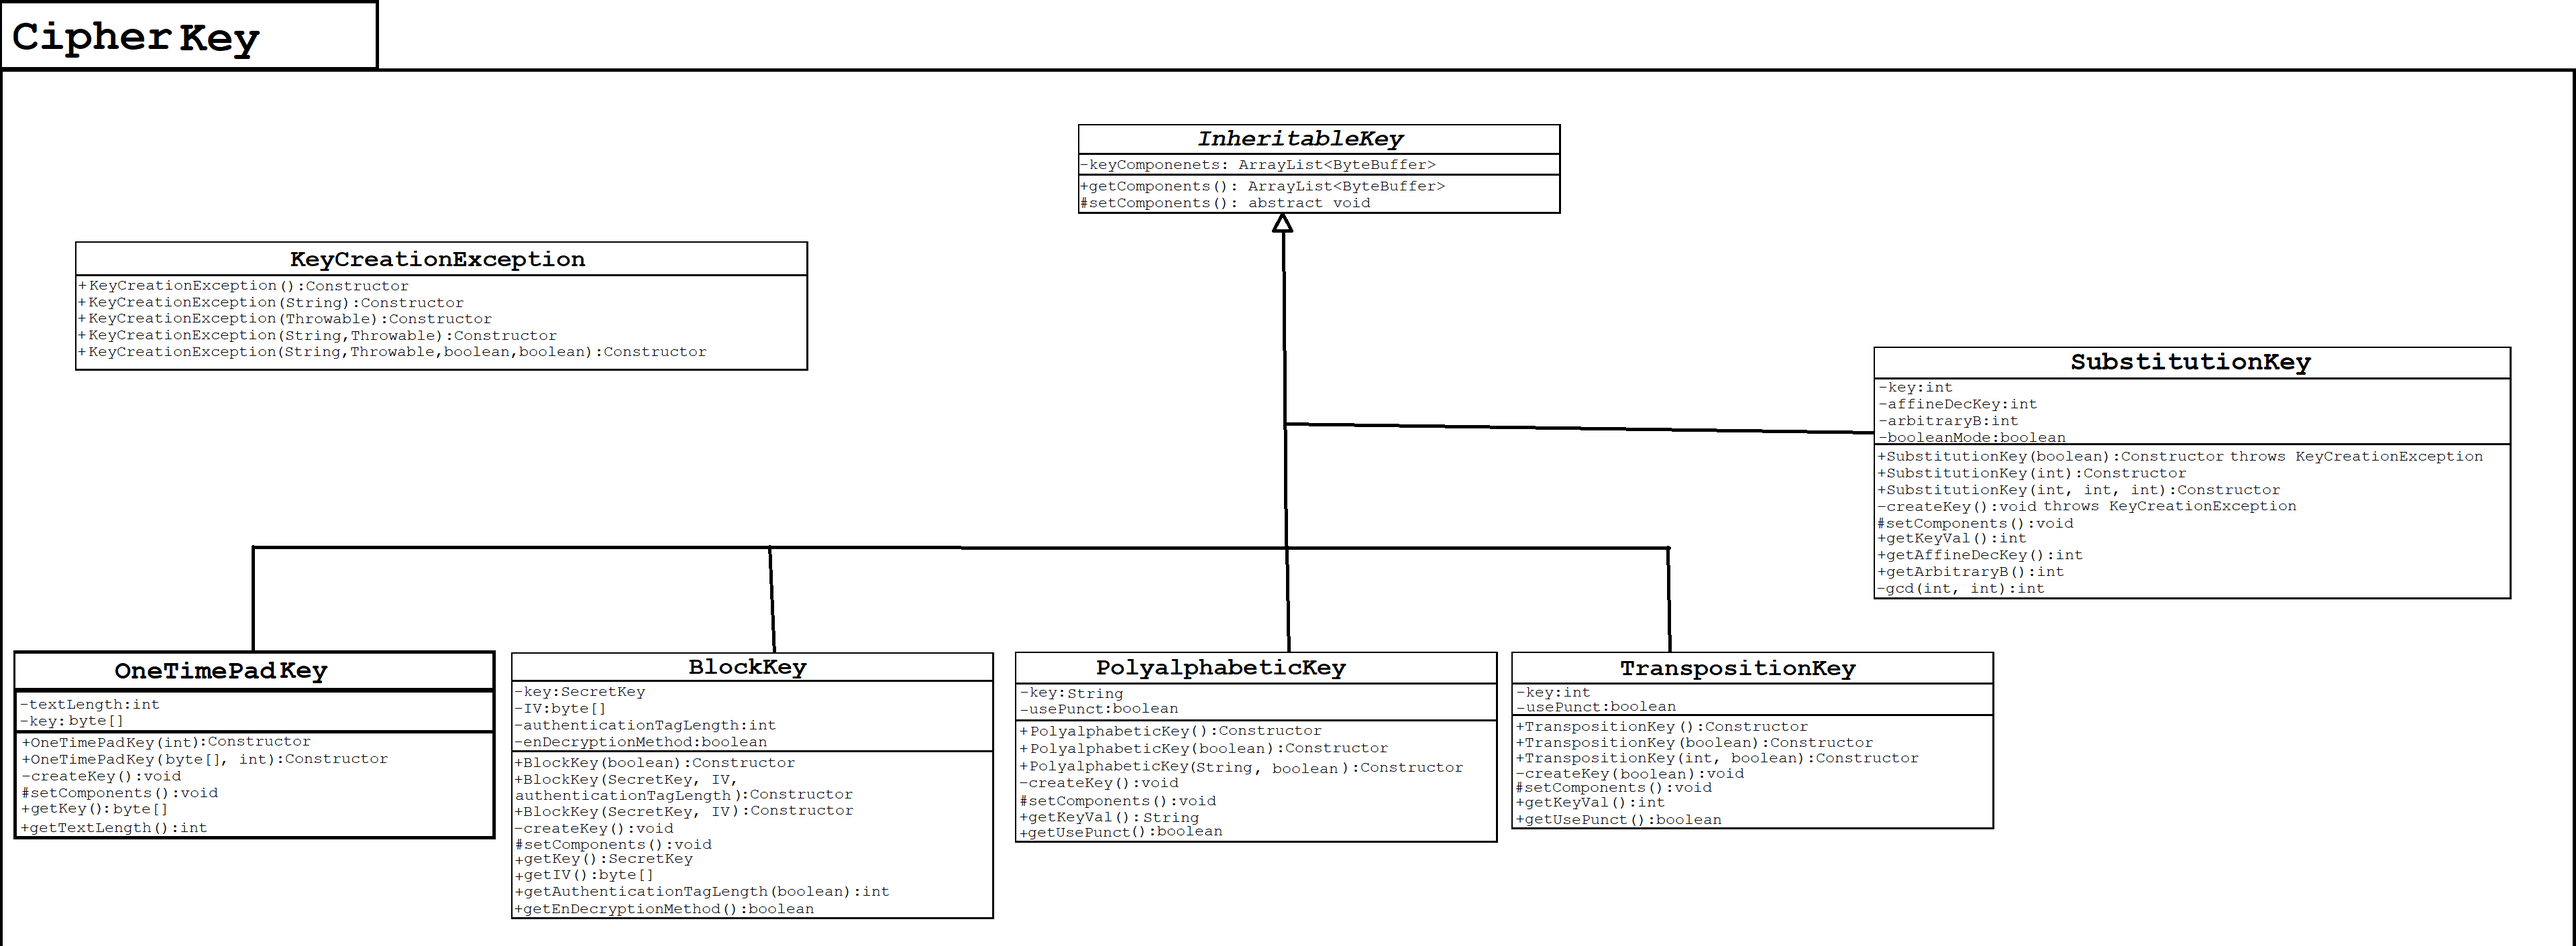
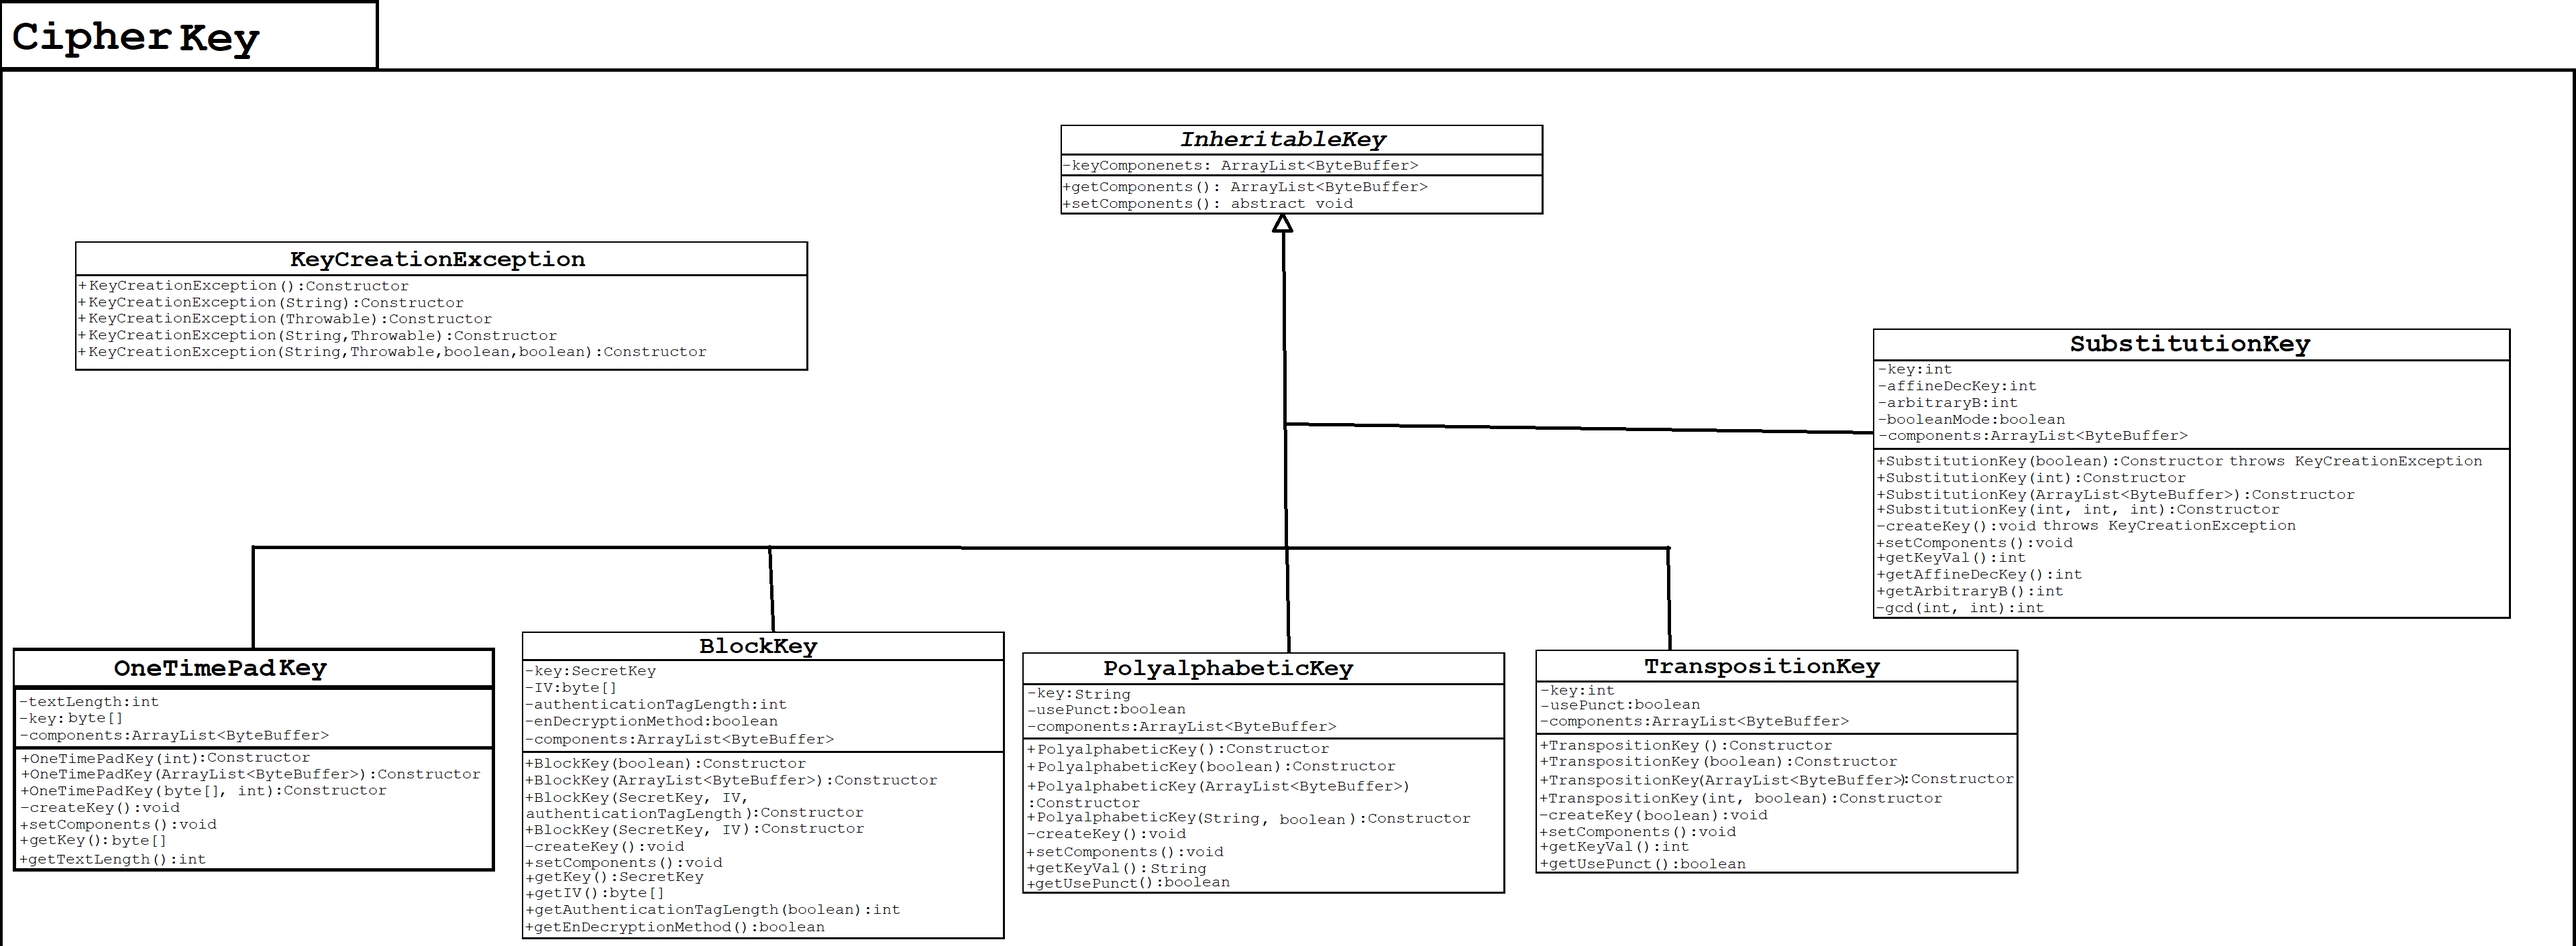
Updated UML diagram class component images for addition of a constructor and implemented them in key classes that will be used by CipherKeyStorage class.

Changed region(s): [[0.0, 0.6549, 0.7812, 0.9979], [0.7188, 0.343, 0.9688, 0.6549], [0.4062, 0.1247, 0.5625, 0.2183]]

diff --git a/Encryptor Decryptor File Encryption/src/Encryptor Decryptor File Ecryption/CipherKeys/BlockKey.java b/Encryptor Decryptor File Encryption/src/Encryptor Decryptor File Ecryption/CipherKeys/BlockKey.java
@@ -7,6 +7,7 @@ import javax.crypto.KeyGenerator;
 import javax.crypto.SecretKey;
 import java.security.SecureRandom;
 import java.nio.ByteBuffer;
+import java.util.ArrayList;
 
 /**
  * @author Amol Soneji
@@ -19,6 +20,7 @@ public class BlockKey extends InheritableKey
 	private byte[] IV; //Initialization Vector.  
 	private int authenticationTagLength; //Length of the authentication tag used in AES-GCM.  
 	private boolean enDecryptionMethod; //Mode of key, true AES-GCM, false AES-CBC.  
+	private ArrayList<ByteBuffer> components = null;
 	
 	/**
 	 * 
@@ -27,6 +29,11 @@ public class BlockKey extends InheritableKey
 	{
 		this.enDecryptionMethod = enDecryptionMethod;
 		createKey();
+	}
+	
+	public BlockKey(ArrayList<ByteBuffer> components) //Called by CipherKeyStorage for use in returning a InheritableKey.  
+	{
+		this.components.addAll(components);
 	}
 	
 	public BlockKey(SecretKey key, byte[] IV, int authenticataionTagLength)
@@ -78,24 +85,28 @@ public class BlockKey extends InheritableKey
 	}
 	
 	@Override
-	protected void setComponents() 
+	public void setComponents() 
 	{
-		ByteBuffer firstArg = ByteBuffer.allocate(16);
-		if(enDecryptionMethod)
+		if(components == null)
 		{
-			ByteBuffer secondArg = ByteBuffer.allocate(IV.length);
-			ByteBuffer thirdArg = ByteBuffer.allocate(4);
-			super.keyComponents.add(firstArg.put(key.getEncoded()));
-			super.keyComponents.add(secondArg.put(IV));
-			super.keyComponents.add(thirdArg.putInt(authenticationTagLength));
+			ByteBuffer firstArg = ByteBuffer.allocate(16);
+			if(enDecryptionMethod)
+			{
+				ByteBuffer secondArg = ByteBuffer.allocate(IV.length);
+				ByteBuffer thirdArg = ByteBuffer.allocate(4);
+				super.keyComponents.add(firstArg.put(key.getEncoded()));
+				super.keyComponents.add(secondArg.put(IV));
+				super.keyComponents.add(thirdArg.putInt(authenticationTagLength));
+			}
+			else
+			{
+				ByteBuffer secondArg = ByteBuffer.allocate(IV.length);
+				super.keyComponents.add(firstArg.put(key.getEncoded()));
+				super.keyComponents.add(secondArg.put(IV));
+			}
 		}
 		else
-		{
-			ByteBuffer secondArg = ByteBuffer.allocate(IV.length);
-			super.keyComponents.add(firstArg.put(key.getEncoded()));
-			super.keyComponents.add(secondArg.put(IV));
-		}
-		
+			super.keyComponents.addAll(components); //Adds all to InheritableKey. 
 	}
 	
 	public SecretKey getKey()

diff --git a/Encryptor Decryptor File Encryption/src/Encryptor Decryptor File Ecryption/CipherKeys/PolyalphabeticKey.java b/Encryptor Decryptor File Encryption/src/Encryptor Decryptor File Ecryption/CipherKeys/PolyalphabeticKey.java
@@ -15,6 +15,7 @@ public class PolyalphabeticKey extends InheritableKey
 {
 	private String key;
 	private boolean usePunct;
+	private ArrayList<ByteBuffer> components = null;
 
 	public PolyalphabeticKey() 
 	{
@@ -26,6 +27,11 @@ public class PolyalphabeticKey extends InheritableKey
 	{
 		this.usePunct = usePunct;
 		createKey();
+	}
+	
+	public PolyalphabeticKey(ArrayList<ByteBuffer> components) //Called by CipherKeyStorage for use in returning a InheritableKey.  
+	{
+		this.components.addAll(components);
 	}
 	
 	public PolyalphabeticKey(String key, boolean usePunct)
@@ -69,29 +75,34 @@ public class PolyalphabeticKey extends InheritableKey
 	}
 	
 	@Override
-	protected void setComponents() 
+	public void setComponents() 
 	{
-			ByteBuffer firstArg = ByteBuffer.allocate(key.length());
-			ByteBuffer secondArg = ByteBuffer.allocate(1);
-			BitSet boolInBits = new BitSet();
-			if(usePunct)
-				boolInBits.set(0);
-			byte[] boolInBytes = boolInBits.toByteArray();
-			try
+			if(components == null)
 			{
-				super.keyComponents.add(firstArg.put(key.getBytes("UTF-16")));
-			}
-			catch(UnsupportedEncodingException e)
-			{
-				System.out.println("There was an error.  Please run the program in a different");
-				System.out.println("computer.  Program will close in 10 seconds.  ");
-				for(int i = 0; i < 10000; i++)
+				ByteBuffer firstArg = ByteBuffer.allocate(key.length());
+				ByteBuffer secondArg = ByteBuffer.allocate(1);
+				BitSet boolInBits = new BitSet();
+				if(usePunct)
+					boolInBits.set(0);
+				byte[] boolInBytes = boolInBits.toByteArray();
+				try
 				{
-					i = i;  
+					super.keyComponents.add(firstArg.put(key.getBytes("UTF-16")));
 				}
-				System.exit(0);
+				catch(UnsupportedEncodingException e)
+				{
+					System.out.println("There was an error.  Please run the program in a different");
+					System.out.println("computer.  Program will close in 10 seconds.  ");
+					for(int i = 0; i < 10000; i++)
+					{
+						i = i;  
+					}
+					System.exit(0);
+				}
+				super.keyComponents.add(secondArg.put(boolInBytes[0]));
 			}
-			super.keyComponents.add(secondArg.put(boolInBytes[0]));
+			else
+				super.keyComponents.addAll(components); //Adds all to InheritableKey.  
 	}
 	
 	public String getKeyVal()

diff --git a/Encryptor Decryptor File Encryption/src/Encryptor Decryptor File Ecryption/CipherKeys/SubstitutionKey.java b/Encryptor Decryptor File Encryption/src/Encryptor Decryptor File Ecryption/CipherKeys/SubstitutionKey.java
@@ -4,6 +4,7 @@ package CipherKeys;
 import java.security.SecureRandom;
 import java.math.BigInteger;
 import java.nio.ByteBuffer;
+import java.util.ArrayList;
 
 /**
  * @author Amol Soneji
@@ -15,6 +16,7 @@ public class SubstitutionKey extends InheritableKey
 	private int affineDecKey;
 	private int arbitraryB;
 	private boolean booleanMode;
+	private ArrayList<ByteBuffer> components = null;
 	
 	public SubstitutionKey(boolean booleanMode) throws KeyCreationException
 	{
@@ -26,6 +28,11 @@ public class SubstitutionKey extends InheritableKey
 	{
 		this.key = key;
 		booleanMode = false;
+	}
+	
+	public SubstitutionKey(ArrayList<ByteBuffer> components) //Called by CipherKeyStorage for use in returning a InheritableKey.  
+	{
+		this.components.addAll(components);
 	}
 	
 	public SubstitutionKey(int key, int affineDecKey, int arbitraryB)
@@ -70,19 +77,24 @@ public class SubstitutionKey extends InheritableKey
 	}
 	
 	@Override
-	protected void setComponents() 
+	public void setComponents() 
 	{
-		ByteBuffer firstArg = ByteBuffer.allocate(4);
-		if(booleanMode)
+		if(components == null)
 		{
-			ByteBuffer secondArg = ByteBuffer.allocate(4);
-			ByteBuffer thirdArg = ByteBuffer.allocate(4);
-			super.keyComponents.add(firstArg.putInt(key));
-			super.keyComponents.add(secondArg.putInt(affineDecKey));
-			super.keyComponents.add(thirdArg.putInt(arbitraryB));
+			ByteBuffer firstArg = ByteBuffer.allocate(4);
+			if(booleanMode)
+			{
+				ByteBuffer secondArg = ByteBuffer.allocate(4);
+				ByteBuffer thirdArg = ByteBuffer.allocate(4);
+				super.keyComponents.add(firstArg.putInt(key));
+				super.keyComponents.add(secondArg.putInt(affineDecKey));
+				super.keyComponents.add(thirdArg.putInt(arbitraryB));
+			}
+			else
+				super.keyComponents.add(firstArg.putInt(key));
 		}
 		else
-			super.keyComponents.add(firstArg.putInt(key));
+			super.keyComponents.addAll(components); //Adds all to InheritableKey.  
 	}
 	
 	public int getKeyVal()

diff --git a/Encryptor Decryptor File Encryption/src/Encryptor Decryptor File Ecryption/CipherKeys/OneTimePadKey.java b/Encryptor Decryptor File Encryption/src/Encryptor Decryptor File Ecryption/CipherKeys/OneTimePadKey.java
@@ -5,6 +5,7 @@ package CipherKeys;
 
 import java.security.SecureRandom;
 import java.nio.ByteBuffer;
+import java.util.ArrayList;
 
 /**
  * @author Amol Soneji
@@ -14,11 +15,17 @@ public class OneTimePadKey extends InheritableKey
 {
 	private int textLength; // Text length in terms of number of number of bytes.  
 	private byte[] key;
+	private ArrayList<ByteBuffer> components = null;
 	
 	public OneTimePadKey(int textLength)
 	{
 		this.textLength = textLength;
 		createKey();
+	}
+	
+	public OneTimePadKey(ArrayList<ByteBuffer> components) //Called by CipherKeyStorage for use in returning a InheritableKey.  
+	{
+		this.components.addAll(components);
 	}
 	
 	public OneTimePadKey(byte[] key, int textLength)
@@ -35,12 +42,17 @@ public class OneTimePadKey extends InheritableKey
 	}
 	
 	@Override
-	protected void setComponents() 
+	public void setComponents() 
 	{
-		ByteBuffer firstArg = ByteBuffer.allocate(4);
-		ByteBuffer secondArg = ByteBuffer.allocate(key.length);
-		super.keyComponents.add(firstArg.putInt(textLength));
-		super.keyComponents.add(secondArg.put(key));
+		if(components == null)
+		{
+			ByteBuffer firstArg = ByteBuffer.allocate(4);
+			ByteBuffer secondArg = ByteBuffer.allocate(key.length);
+			super.keyComponents.add(firstArg.putInt(textLength));
+			super.keyComponents.add(secondArg.put(key));
+		}
+		else
+			super.keyComponents.addAll(components); //Adds all to InheritableKey.  
 	}
 	
 	public byte[] getKey()

diff --git a/Encryptor Decryptor File Encryption/src/Encryptor Decryptor File Ecryption/CipherKeys/TranspositionKey.java b/Encryptor Decryptor File Encryption/src/Encryptor Decryptor File Ecryption/CipherKeys/TranspositionKey.java
@@ -6,6 +6,7 @@ package CipherKeys;
 import java.security.SecureRandom;
 import java.nio.ByteBuffer;
 import java.util.BitSet;
+import java.util.ArrayList;
 
 /**
  * @author Amol Soneji
@@ -16,6 +17,7 @@ public class TranspositionKey extends InheritableKey
 
 	private int key;
 	private boolean usePunct;
+	private ArrayList<ByteBuffer> components = null;
 	
 	/**
 	 * 
@@ -30,6 +32,11 @@ public class TranspositionKey extends InheritableKey
 	{
 		this.usePunct = usePunct;
 		createKey();
+	}
+	
+	public TranspositionKey(ArrayList<ByteBuffer> components) //Called by CipherKeyStorage for use in returning a InheritableKey.  
+	{
+		this.components.addAll(components);
 	}
 	
 	public TranspositionKey(int key, boolean usePunct)
@@ -50,8 +57,10 @@ public class TranspositionKey extends InheritableKey
 	}
 	
 	@Override
-	protected void setComponents() 
+	public void setComponents() 
 	{
+		if(components == null)
+		{
 			ByteBuffer firstArg = ByteBuffer.allocate(4);
 			ByteBuffer secondArg = ByteBuffer.allocate(1);
 			BitSet boolInBits = new BitSet();
@@ -60,6 +69,9 @@ public class TranspositionKey extends InheritableKey
 			byte[] boolInBytes = boolInBits.toByteArray();
 			super.keyComponents.add(firstArg.putInt(key));
 			super.keyComponents.add(secondArg.put(boolInBytes));
+		}
+		else
+			super.keyComponents.addAll(components); //Adds all to InheritableKey. 
 	}
 	
 	public int getKeyVal()

diff --git a/Encryptor Decryptor File Encryption/src/Encryptor Decryptor File Ecryption/main/CipherKeyStorage.java b/Encryptor Decryptor File Encryption/src/Encryptor Decryptor File Ecryption/main/CipherKeyStorage.java
@@ -3,7 +3,7 @@
  */
 package main;
 
-import CipherKeys.InheritableKey;
+import CipherKeys.*;
 import java.sql.Connection;
 import java.sql.DriverManager;
 import java.sql.SQLException;
@@ -310,6 +310,19 @@ public class CipherKeyStorage
 				eTwo.printStackTrace();
 			}
 			System.exit(1);
+		}
+	}
+	
+	protected InheritableKey getKey(String docName, int keyType)
+	{
+		try
+		{
+			Statement stmt = conn.createStatement();
+			
+		}
+		catch(Exception e)
+		{
+			
 		}
 	}
 }

diff --git a/Encryptor Decryptor File Encryption/src/Encryptor Decryptor File Ecryption/CipherKeys/InheritableKey.java b/Encryptor Decryptor File Encryption/src/Encryptor Decryptor File Ecryption/CipherKeys/InheritableKey.java
@@ -24,5 +24,5 @@ public abstract class InheritableKey
 		return this.keyComponents;
 	}
 	
-	protected abstract void setComponents();
+	public abstract void setComponents();
 }
